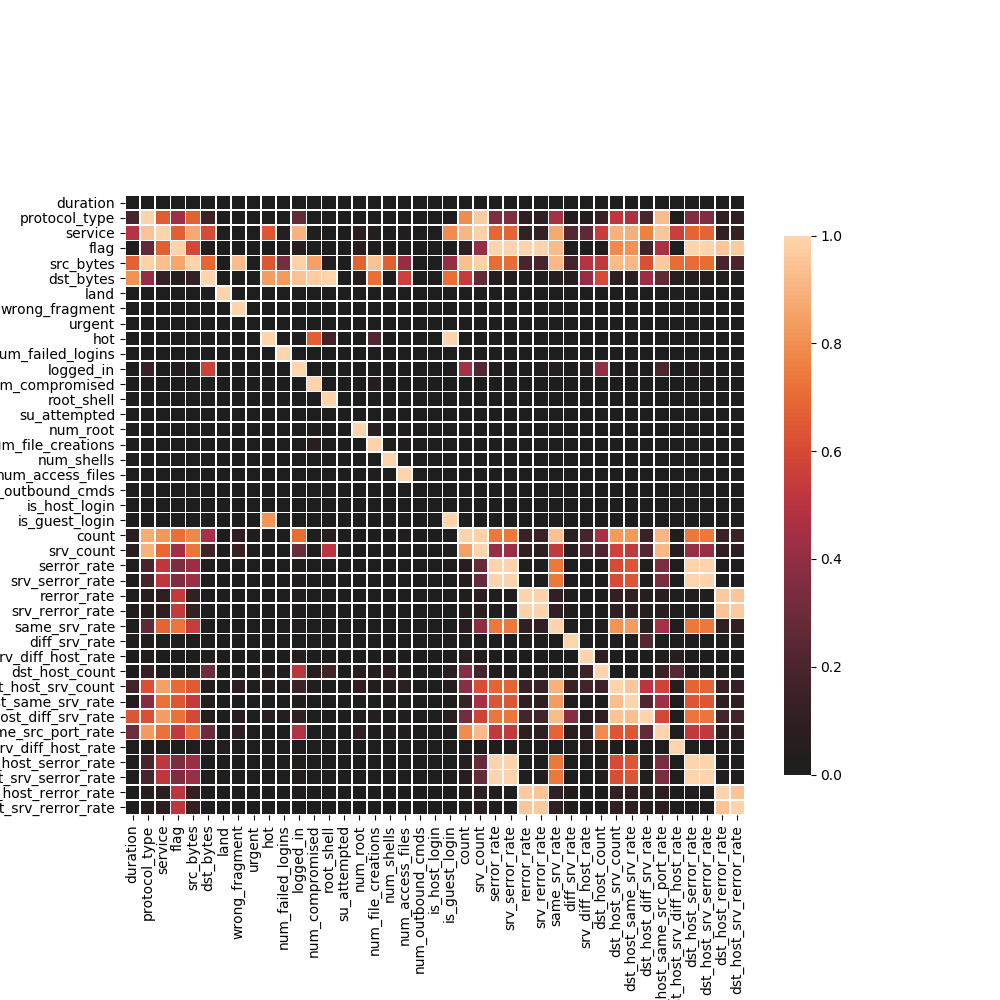
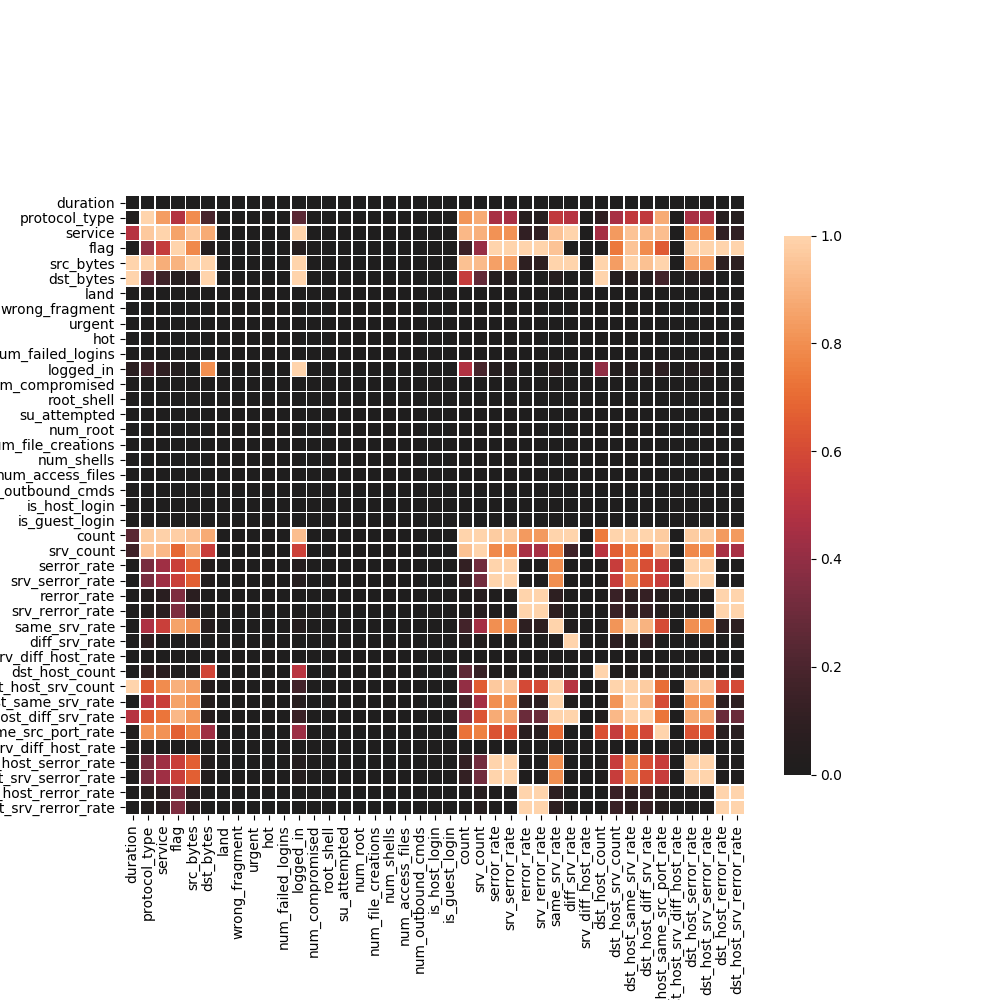
fixed typo in correlation matrix

diff --git a/ML/OOD/CorrelationTest.py b/ML/OOD/CorrelationTest.py
@@ -54,7 +54,7 @@ def main(argv):
     host = args.host
 
     conn = SQLConnector(host = host)
-    data = conn.pull_all_attacks(num=40000)
+    data = conn.pull_all_attacks(num)
     columns = conn.pull_kdd99_columns()
     col_len = len(columns) - 1
     dataframe = pd.DataFrame(data=data, columns=columns)
